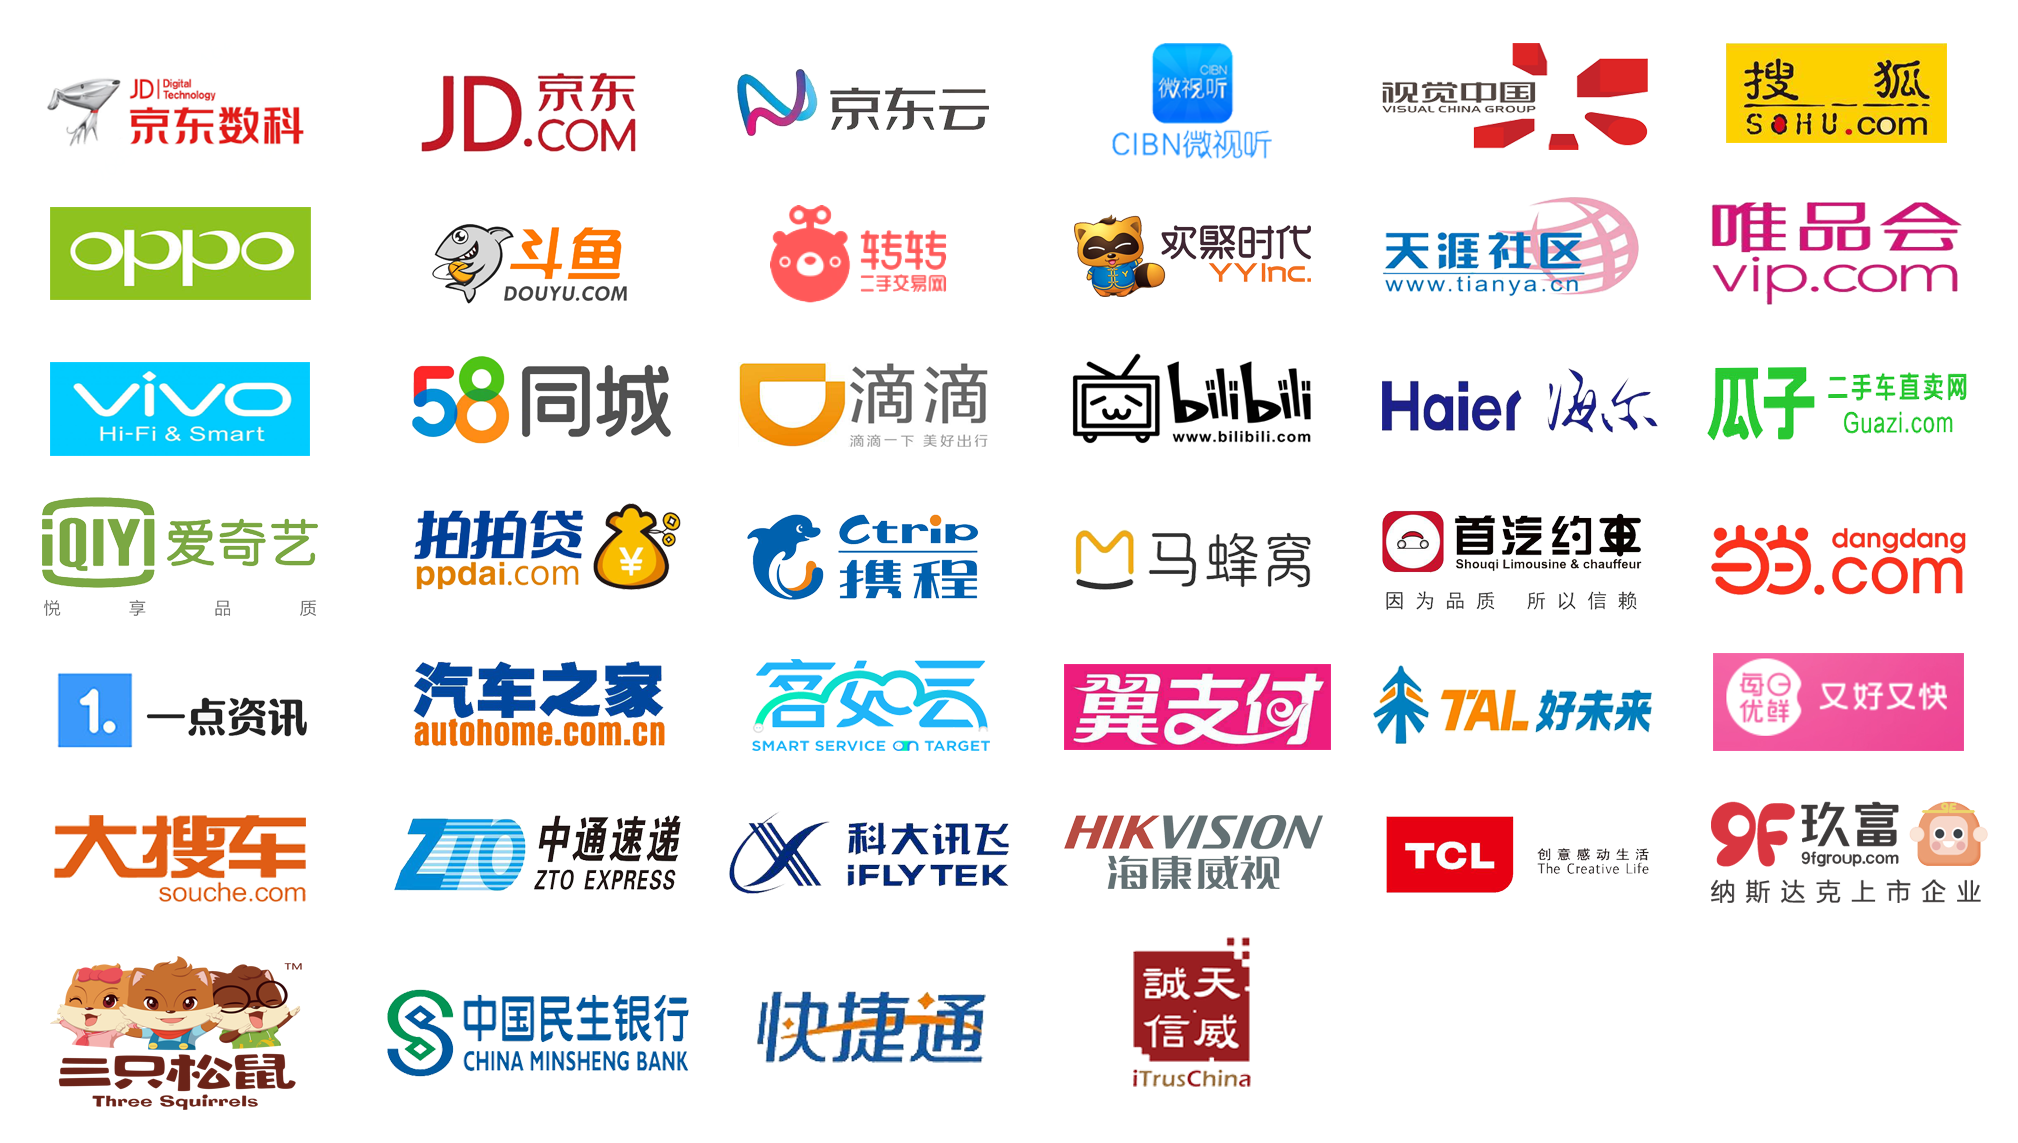
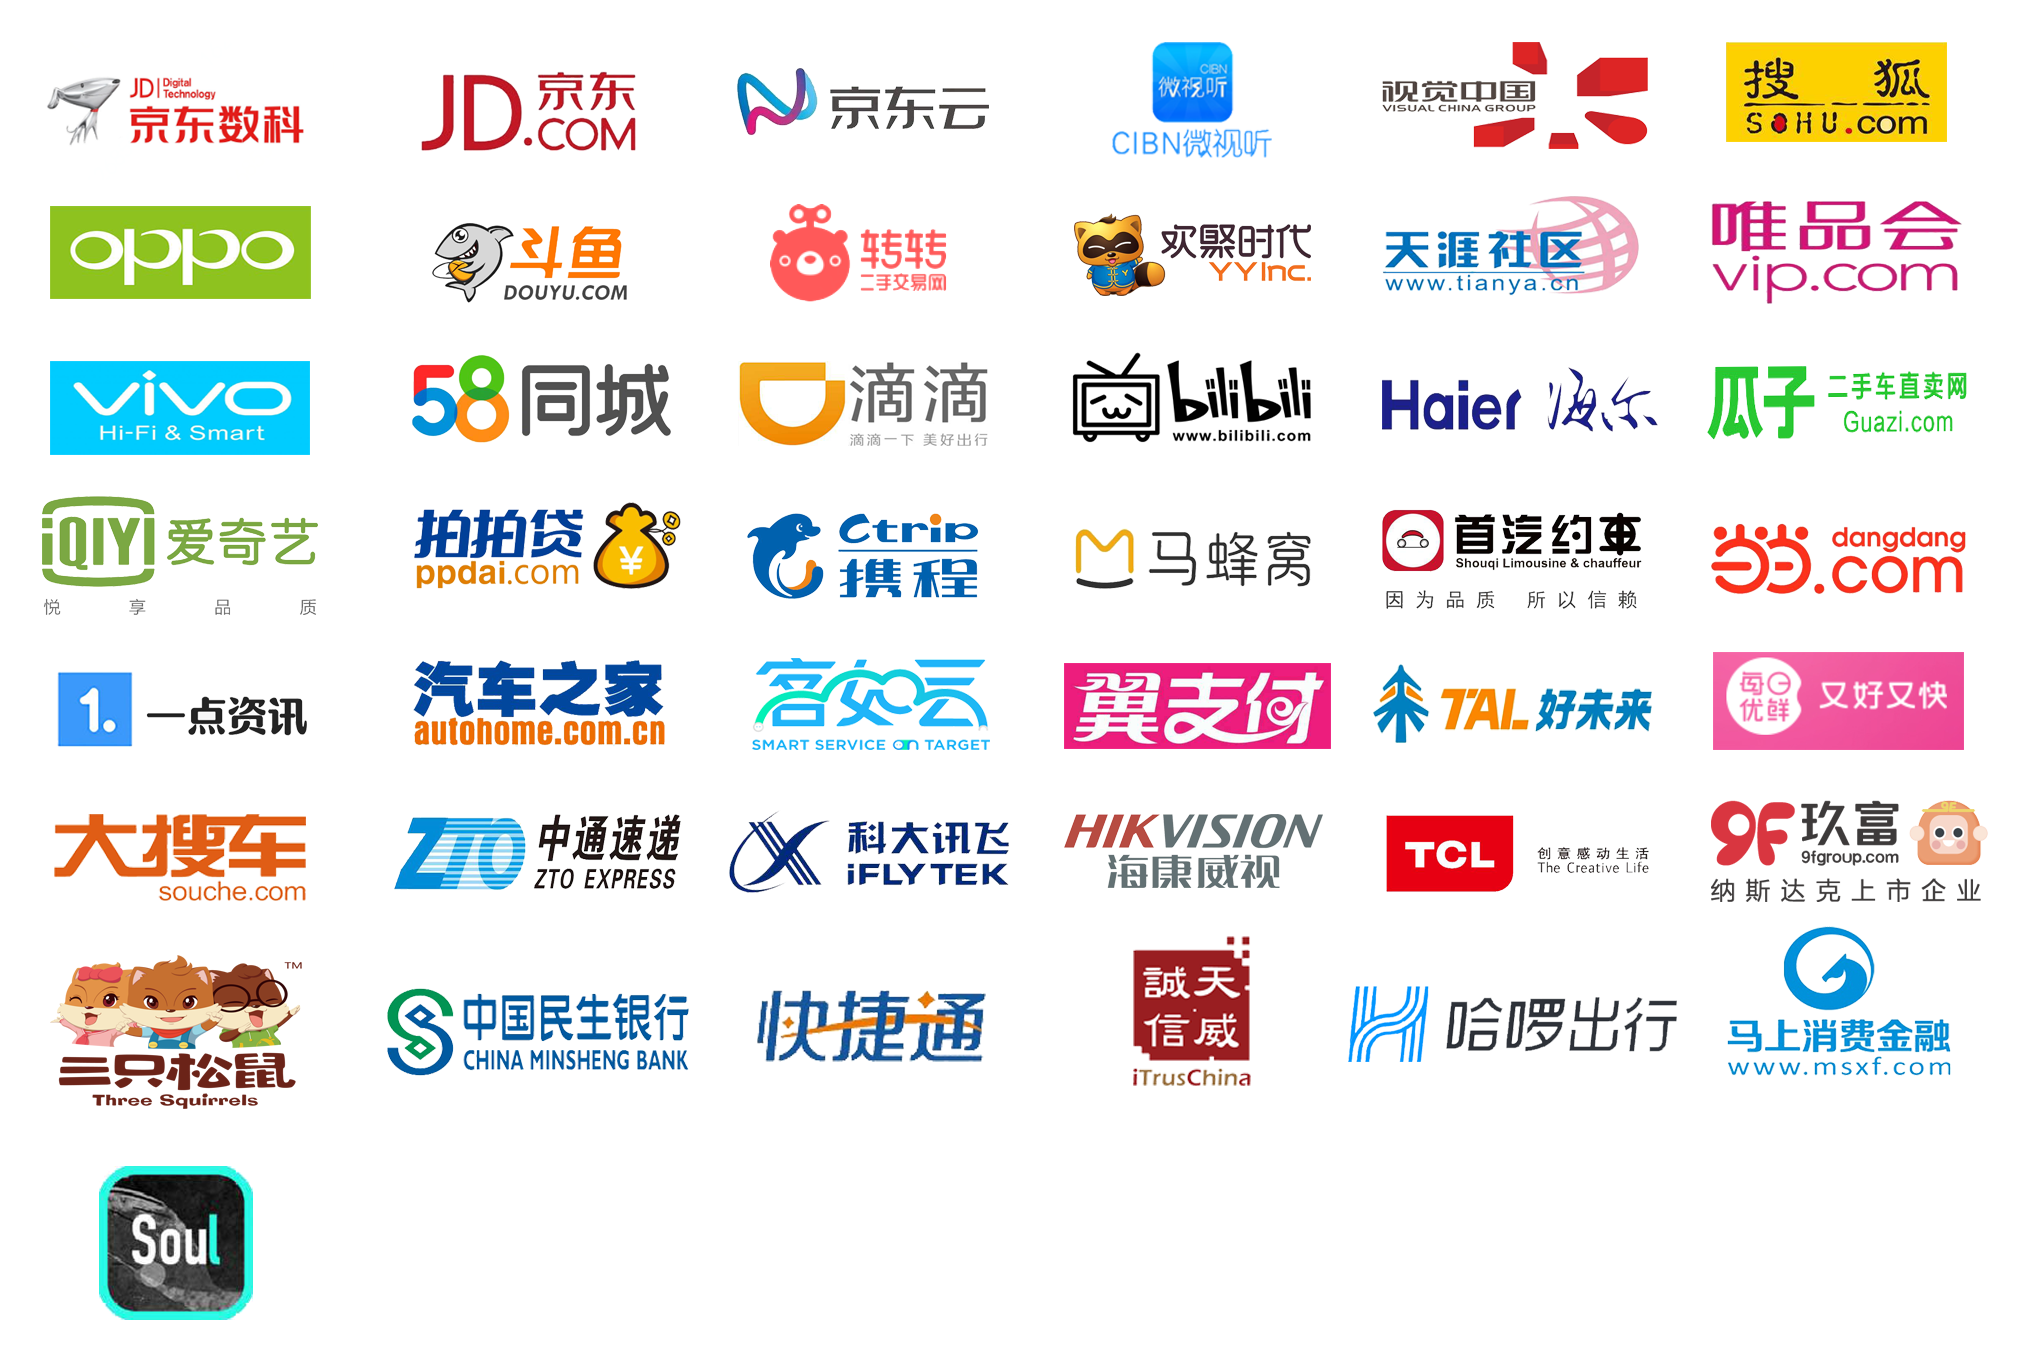
add companies to user list (#414)

diff --git a/community/content/poweredby/_index.cn.md b/community/content/poweredby/_index.cn.md
@@ -31,6 +31,7 @@ chapter = true
 1. 百果园 http://www.pagoda.com.cn/ 
 1. 百姓网 https://www.baixing.com/ 
 1. 百畅科技 http://www.sdbaichang.com/ 
+1. 佰裕行科技（深圳）有限公司 https://innoways.com/
 1. 北京环球网校 http://www.hqwx.com/ 
 1. 北京千丁互联科技有限公司 http://caas.com.cn/
 1. 哔哩哔哩弹幕网 https://www.bilibili.com/ 
@@ -46,6 +47,7 @@ chapter = true
 1. 东奥教育集团 http://edu.dongao.com/ 
 1. 东方车联 http://www.dongfang789.com/ 
 1. 斗鱼TV https://www.douyu.com/ 
+1. 对啊网 https://www.duia.com/
 1. 非凡之星 http://www.ffzxnet.com/ 
 1. 蜂网 https://www.newbeescm.com/ 
 1. 凤凰汽车 https://auto.ifeng.com/ 
@@ -85,12 +87,14 @@ chapter = true
 1. 快捷通支付服务有限公司 https://www.kjtpay.com/
 1. 丽人丽妆 https://www.lrlz.com/ 
 1. 马蜂窝 https://www.mafengwo.cn/ 
+1. 马上金融 https://www.msxf.com/
 1. 每日优鲜便利购 https://www.missfresh.cn/ 
 1. 美利车金融 https://www.mljr.com/ 
 1. 秒卖房 https://www.miaomaifang.com/ 
 1. 魔力耳朵 https://magicears.com.cn/ 
 1. 男衣库 https://www.nanyiku.com/
 1. 南潮信息科技 https://ruff.io/ 
+1. 南京爱福路汽车科技 http://www.f6car.com/
 1. 你我金融 https://www.niiwoo.com/ 
 1. 拍拍贷 https://www.ppdai.com/ 
 1. 汽车之家  https://www.autohome.com.cn/ 
@@ -98,6 +102,7 @@ chapter = true
 1. 赛特斯CertusNet http://www.certusnet.com.cn/ 
 1. 三只松鼠 http://www.3songshu.com/
 1. 上海社宝信息科技有限公司 https://www.shebaotong.com/
+1. 上海 soul app https://www.soulapp.cn/
 1. 视觉中国 https://500px.me/ 
 1. 首汽约车 https://www.01zhuanche.com/
 1. 搜好货 https://www.912688.com/

diff --git a/community/content/poweredby/_index.en.md b/community/content/poweredby/_index.en.md
@@ -52,7 +52,9 @@ The list here will be shown in the alphabetical order.
 1. DongFang789 http://www.dongfang789.com/
 1. DouYuTV https://www.douyu.com/
 1. DongAo http://edu.dongao.com/
+1. DuiA https://www.duia.com/
 1. Eeka Fashion http://www.eeka.cn/
+1. F6 Car http://www.f6car.com/
 1. FFZXNet http://www.ffzxnet.com/
 1. Fotoplace https://www.fotoplace.cc/
 1. GaoJiHealth http://www.gaojihealth.com/
@@ -68,6 +70,7 @@ The list here will be shown in the alphabetical order.
 1. HuoCheBang http://www.huochebang.com/
 1. HYDEE http://www.hydee.cn/
 1. Iflytek https://www.iflytek.com/
+1. Innoways https://innoways.com/
 1. Iqiyi https://www.iqiyi.com/
 1. ITrusChina https://www.itrus.com.cn/
 1. IZXCS http://www.izxcs.com/
@@ -91,6 +94,7 @@ The list here will be shown in the alphabetical order.
 1. MiaoMaiFang https://www.miaomaifang.com/
 1. MissFresh https://www.missfresh.cn/
 1. MLJR https://www.mljr.com/
+1. MSXF https://www.msxf.com/
 1. MyWeiMai https://www.myweimai.com/
 1. NanYiKu https://www.nanyiku.com/
 1. NewBeeScm https://www.newbeescm.com/
@@ -107,6 +111,7 @@ The list here will be shown in the alphabetical order.
 1. ShouQi https://www.01zhuanche.com/
 1. SoHu https://ss.sohu.com/
 1. SouChe https://www.souche.com/
+1. Soul App https://www.soulapp.cn/
 1. Sui https://www.sui.com/
 1. Super SOCO https://www.supersoco.com/
 1. TAL http://www.100tal.com/
